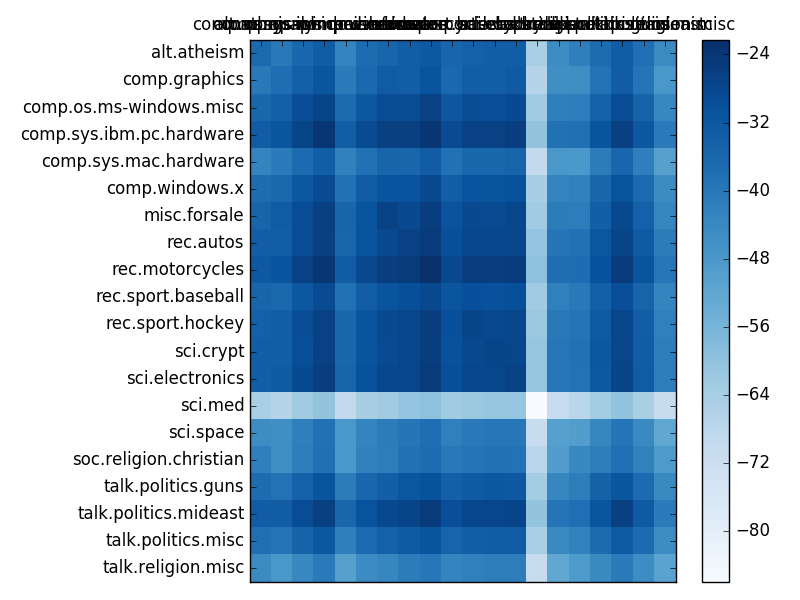
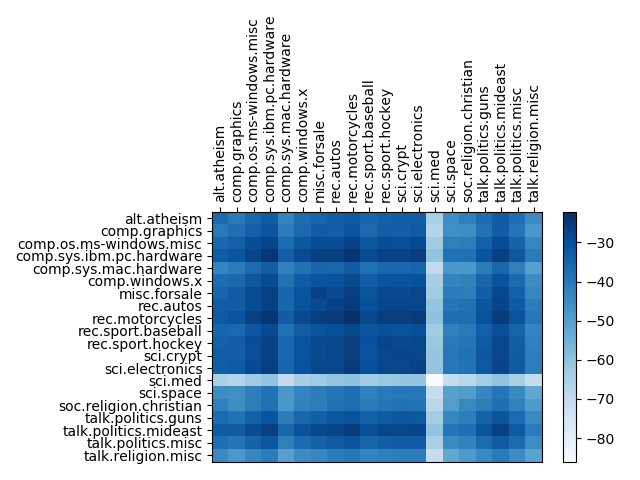
started written

diff --git a/P2/code.py b/P2/code.py
@@ -107,7 +107,7 @@ def makeHeatMap(data, names, color, outputFileName):
         ax.invert_yaxis()
         ax.xaxis.tick_top()
 
-        ax.set_xticklabels(names)
+        ax.set_xticklabels(names,rotation=90)
         ax.set_yticklabels(names)
 
         plt.tight_layout()
@@ -134,15 +134,15 @@ def findSimilarity(func, filename):
             matrix[i][j] = float(total_similarities)/num_similarities
     makeHeatMap(matrix, groups, plt.cm.Blues, filename)
 
-# print("Jaccard Similarity...")
-# findSimilarity(jaccard, "jaccard.png")
-# print("Jaccard Done")
-# print("L2 Similarity...")
-# findSimilarity(l2sim, "l2sim.png")
-# print("L2 Done")
-# print("Cosine Similarity...")
-# findSimilarity(cosine, "cosine.png")
-# print("Cosine Done")
+print("Jaccard Similarity...")
+findSimilarity(jaccard, "jaccard.png")
+print("Jaccard Done")
+print("L2 Similarity...")
+findSimilarity(l2sim, "l2sim.png")
+print("L2 Done")
+print("Cosine Similarity...")
+findSimilarity(cosine, "cosine.png")
+print("Cosine Done")
 
 # QUESTION 2
 # TODO: fix baseline? & improve heatmap look
@@ -175,9 +175,9 @@ def baseline():
     print(classification_error)
     makeHeatMap(matrix, groups, plt.cm.Blues, "baseline.png")
 
-print("Baseline...")
-baseline()
-print("Baseline Done")
+# print("Baseline...")
+# baseline()
+# print("Baseline Done")
 
 def projection(d):
     new_articles = []
@@ -229,19 +229,31 @@ def cosine_arr(x, y):
     y_term = math.sqrt(y_term)
     return float(numerator)/(x_term * y_term)
 
-print("Projecting w d = 10...")
-projection1 = projection(10)
-print("Finding nearest neighbors...")
-nearest_neighbor(projection1, "projection1.png")
-print("Projecting w d = 25...")
-projection2 = projection(25)
-print("Finding nearest neigbors...")
-nearest_neighbor(projection2, "projection2.png")
-print("Projecting w d = 50...")
-projection3 = projection(50)
-print("Finding nearest neigbors...")
-nearest_neighbor(projection3, "projection3.png")
-print("Projecting w d = 100...")
-projection4 = projection(100)
-print("Finding nearest neighbors...")
-nearest_neighbor(projection4, "projection4.png")
+# print("Projecting w d = 10...")
+# projection1 = projection(10)
+# print("Finding nearest neighbors...")
+# nearest_neighbor(projection1, "projection1.png")
+# print("Projecting w d = 25...")
+# projection2 = projection(25)
+# print("Finding nearest neigbors...")
+# nearest_neighbor(projection2, "projection2.png")
+# print("Projecting w d = 50...")
+# projection3 = projection(50)
+# print("Finding nearest neigbors...")
+# nearest_neighbor(projection3, "projection3.png")
+# print("Projecting w d = 100...")
+# projection4 = projection(100)
+# print("Finding nearest neighbors...")
+# nearest_neighbor(projection4, "projection4.png")
+
+
+#Question 3
+
+# def local_sensitivity(d):
+# 	l = 128
+# 	list_hash_tables = []
+# 	for tableNumber in l:
+# 		matrix = np.random.normal(size = (d, max_word_id))
+# 	return
+
+
